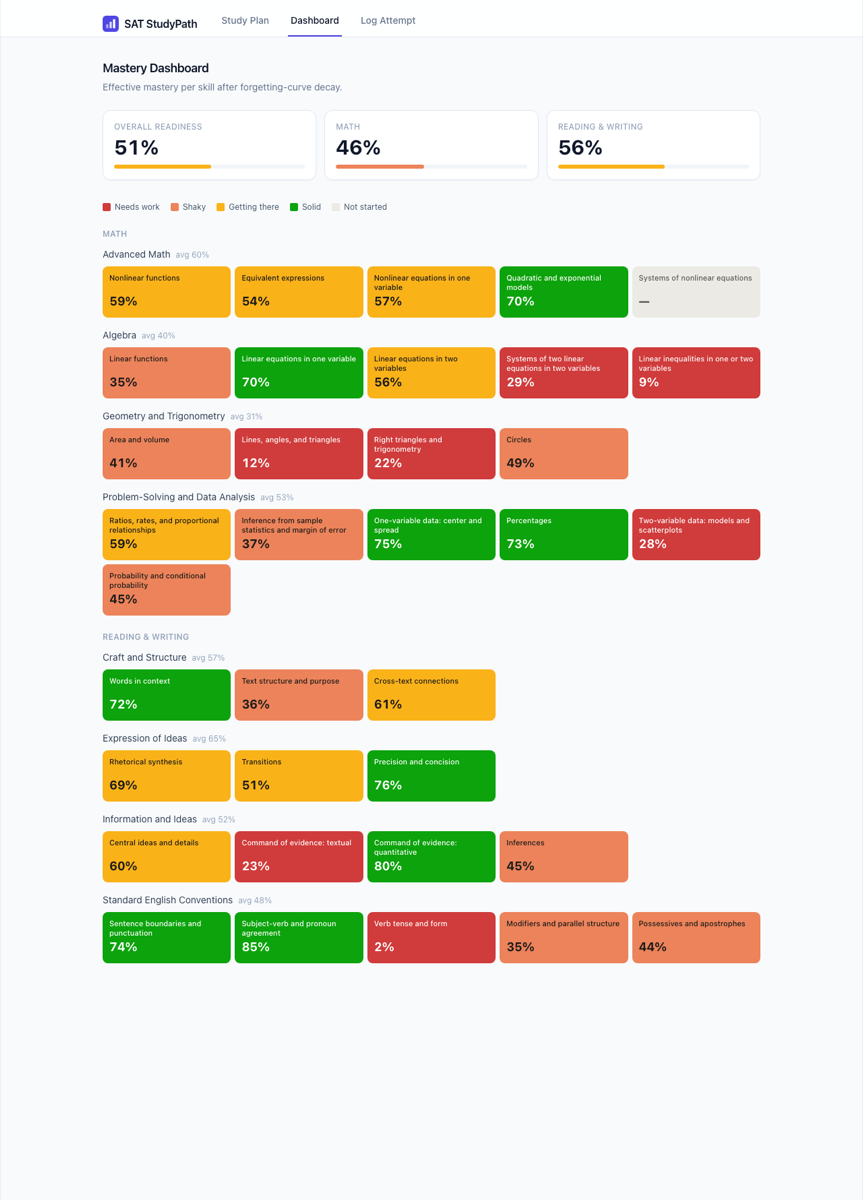
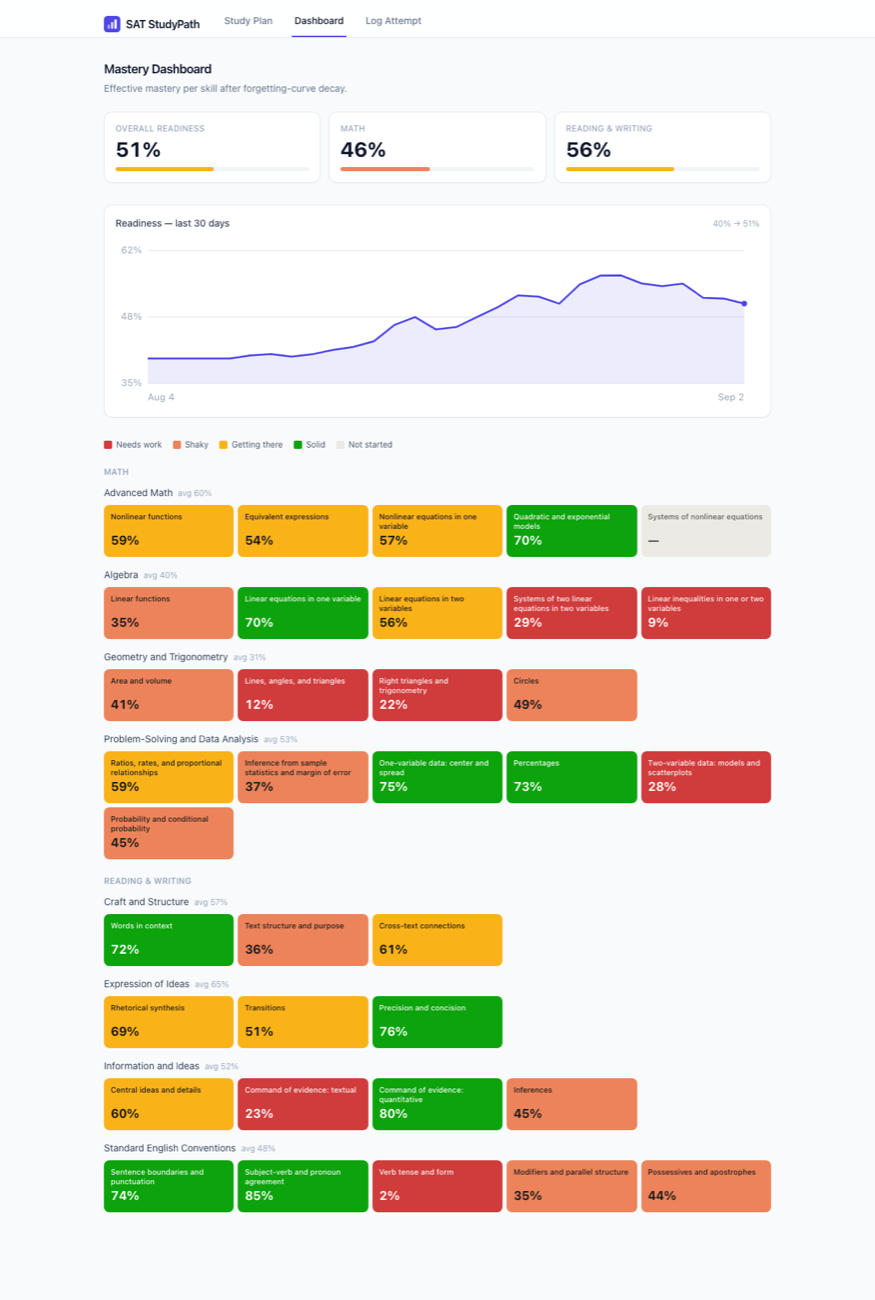
deploy config + a readme section for it

diff --git a/backend/app/config.py b/backend/app/config.py
@@ -10,6 +10,7 @@ from __future__ import annotations
 
 from functools import lru_cache
 
+from pydantic import field_validator
 from pydantic_settings import BaseSettings, SettingsConfigDict
 
 
@@ -28,6 +29,16 @@ class Settings(BaseSettings):
     # Guards POST /api/topics/seed (it wipes and regenerates data). On for local
     # dev; set false in any shared deployment.
     enable_dev_endpoints: bool = True
+
+    @field_validator("database_url")
+    @classmethod
+    def _use_psycopg_driver(cls, url: str) -> str:
+        """Managed Postgres providers hand out ``postgres://`` / ``postgresql://``
+        URLs; SQLAlchemy needs the driver named explicitly for psycopg 3."""
+        for prefix in ("postgres://", "postgresql://"):
+            if url.startswith(prefix):
+                return "postgresql+psycopg://" + url[len(prefix) :]
+        return url
 
     @property
     def cors_origin_list(self) -> list[str]:

diff --git a/backend/app/tests/test_config.py b/backend/app/tests/test_config.py
@@ -1,0 +1,25 @@
+"""Settings behaviour — mostly the database-URL normalisation for deploys."""
+
+from __future__ import annotations
+
+import pytest
+
+from app.config import Settings
+
+
+@pytest.mark.parametrize(
+    ("given", "expected"),
+    [
+        ("sqlite:///./sat.db", "sqlite:///./sat.db"),
+        ("postgres://u:p@host:5432/db", "postgresql+psycopg://u:p@host:5432/db"),
+        ("postgresql://u:p@host/db", "postgresql+psycopg://u:p@host/db"),
+        ("postgresql+psycopg://u:p@host/db", "postgresql+psycopg://u:p@host/db"),
+    ],
+)
+def test_database_url_selects_the_psycopg_driver(given: str, expected: str) -> None:
+    assert Settings(database_url=given).database_url == expected
+
+
+def test_cors_origins_parse_from_a_comma_string() -> None:
+    settings = Settings(cors_origins="http://a.com, http://b.com ,")
+    assert settings.cors_origin_list == ["http://a.com", "http://b.com"]

diff --git a/README.md b/README.md
@@ -27,10 +27,14 @@ Neither captures the two things that actually move a score:
 
 StudyPath does it properly. The recommendation engine
 ([`backend/app/algorithm/`](backend/app/algorithm/)) is a real piece of
-software — four modules of pure, unit-tested functions — not a wrapper around a
+software — five modules of pure, unit-tested functions — not a wrapper around a
 spreadsheet. The [How the recommendation algorithm
 works](#how-the-recommendation-algorithm-works) section below is the part worth
 reading.
+
+Three pages: **Study Plan** (the ranked list, with per-topic links and a jump to
+practice), **Dashboard** (readiness trend + a mastery heatmap), and **Log
+Attempt** (one at a time, or a CSV of a whole practice session).
 
 ## Architecture
 
@@ -45,9 +49,9 @@ reading.
 
 | Layer | What lives there | Why it's separate |
 |---|---|---|
-| [`app/algorithm/`](backend/app/algorithm/) | `mastery` · `decay` · `priority` · `readiness` | Pure functions — take plain values and an explicit `now`, return numbers/dataclasses. Tested against hand-computed values with no database or server running. |
-| [`app/services/`](backend/app/services/) | `record_attempt` (the one write path), `topic_snapshots` (the one ORM→algorithm projection), `seeding` | Both the seed script and `POST /api/attempts` fold attempts into mastery through *one* function, so the update rule exists in exactly one place. |
-| [`app/routers/`](backend/app/routers/) | `topics` · `attempts` · `mastery` · `study_plan` | Thin HTTP handlers; all the logic is a layer down. |
+| [`app/algorithm/`](backend/app/algorithm/) | `mastery` · `decay` · `priority` · `readiness` · `progress` | Pure functions — take plain values and an explicit `now`, return numbers/dataclasses. Tested against hand-computed values with no database or server running. |
+| [`app/services/`](backend/app/services/) | `record_attempt` (the one write path), `topic_snapshots` (the one ORM→algorithm projection), `seeding`, `bulk_import`, `progress` | Both the seed script and `POST /api/attempts` fold attempts into mastery through *one* function, so the update rule exists in exactly one place. |
+| [`app/routers/`](backend/app/routers/) | `topics` · `attempts` · `mastery` · `study_plan` · `progress` · `resources` | Thin HTTP handlers; all the logic is a layer down. |
 | [`frontend/src/`](frontend/src/) | `pages/` · `components/` · `api/` (typed fetch client) | Talks to the API over a relative `/api` path; Vite proxies it in dev. |
 
 ## How the recommendation algorithm works
@@ -130,6 +134,15 @@ coded "remind me to review things"; it emerges from decay + urgency. That
 behaviour has a dedicated test:
 [`test_high_mastery_but_stale_is_pushed_back_up_by_decay`](backend/app/tests/test_mastery_engine.py).
 
+### The readiness trend is reconstructed, not stored
+
+`GET /api/progress` doesn't read a table of daily snapshots — there isn't one. It
+takes the whole attempt history, replays the EWMA forward, and snapshots the
+frequency-weighted, decay-adjusted readiness at the end of each day
+([`app/algorithm/progress.py`](backend/app/algorithm/progress.py), O(attempts +
+days)). A downward drift in the chart during a study break is the forgetting
+curve pulling against zero new practice — the same mechanism, viewed over time.
+
 ## Running it
 
 Clean clone to running app in a couple of minutes. Requires **Python 3.11+**
@@ -170,11 +183,11 @@ Nothing to seed by hand if you skip `python -m app.seed` — the empty state has
 ### Tests
 
 ```bash
-cd backend && pytest               # 80 tests
+cd backend && pytest               # 107 tests
 ```
 
 [`app/tests/test_mastery_engine.py`](backend/app/tests/test_mastery_engine.py) is
-the one to read: 48 cases with the arithmetic worked out in comments next to each
+the one to read: 52 cases with the arithmetic worked out in comments next to each
 assertion, covering every ranking edge case (never-attempted surfaces via
 exploration; perfect-and-fresh sinks; stale-and-strong resurfaces; ties break by
 frequency weight).
@@ -185,8 +198,11 @@ frequency weight).
 |---|---|---|
 | `GET`  | `/api/topics` | the full 35-skill taxonomy |
 | `GET`  | `/api/mastery` | every skill's mastery / decay / confidence + readiness roll-up |
-| `GET`  | `/api/study-plan?limit=5` | ranked recommendations with reason strings |
+| `GET`  | `/api/study-plan?limit=5` | ranked recommendations, each with a reason string and study links |
+| `GET`  | `/api/progress?days=30` | readiness per day, replayed from history |
+| `GET`  | `/api/resources/{topic_id}` | study links for one topic |
 | `POST` | `/api/attempts` | log one attempt `{topic_id, correct, time_taken_seconds, difficulty}`; returns the updated mastery |
+| `POST` | `/api/attempts/bulk` | import a CSV of attempts (`GET /api/attempts/template.csv` for the format) |
 | `POST` | `/api/topics/seed` | dev only — (re)generate the synthetic history |
 
 ## Data & content policy
@@ -197,18 +213,26 @@ seed script generates entirely synthetic attempts (`topic=Linear Functions,
 correct=false, 47s`, never any question content). Topic-frequency weights are
 approximate and tutor-informed, not scraped from any proprietary source.
 
+## Deployment
+
+Config is in the repo — [`render.yaml`](render.yaml) (FastAPI web service + free
+Postgres, seeds itself on deploy), [`backend/Dockerfile`](backend/Dockerfile),
+and [`frontend/vercel.json`](frontend/vercel.json) (SPA rewrites + `/api` proxy).
+Swapping SQLite → Postgres is just `DATABASE_URL`; the psycopg driver is selected
+automatically (`postgres://` URLs are normalised in
+[`config.py`](backend/app/config.py)) and lives in
+[`requirements-prod.txt`](backend/requirements-prod.txt) so local dev stays lean.
+
+1. **API** — Render → New → Blueprint → this repo. Set `CORS_ORIGINS` to the
+   frontend URL once it exists.
+2. **Frontend** — Vercel → import repo, root `frontend/`. Point the `/api`
+   rewrite in `vercel.json` at the Render URL.
+
 ## What I'd build next
 
-- **CSV bulk upload** — paste a full practice-session breakdown instead of one
-  attempt at a time (`POST /api/attempts/bulk`, already stubbed in the endpoint
-  list).
-- **Readiness-over-time chart** — persist a daily readiness snapshot and plot the
-  trend; the roll-up already exists, it just isn't stored.
-- **Per-topic resource links** — the `Resource` model is in the schema; wire a
-  small admin list and surface "watch/read this" on each study-plan card.
 - **Calibrated scaled score** — map the 0–1 readiness number onto the 400–1600
   scale using real concordance data.
-- **Multi-user** — add auth and scope every query by user; the write path and
-  snapshot projection are already the only two places that would need to change.
-- **Deploy** — Render/Railway for the API (swap SQLite → Postgres, one line),
-  Vercel for the frontend.
+- **Multi-user** — add auth and scope every query by user; the write path and the
+  snapshot projection are the only two places that would need to change.
+- **Adaptive difficulty in the plan** — recommend *which* difficulty band to
+  practise per topic from the per-difficulty accuracy already being logged.
